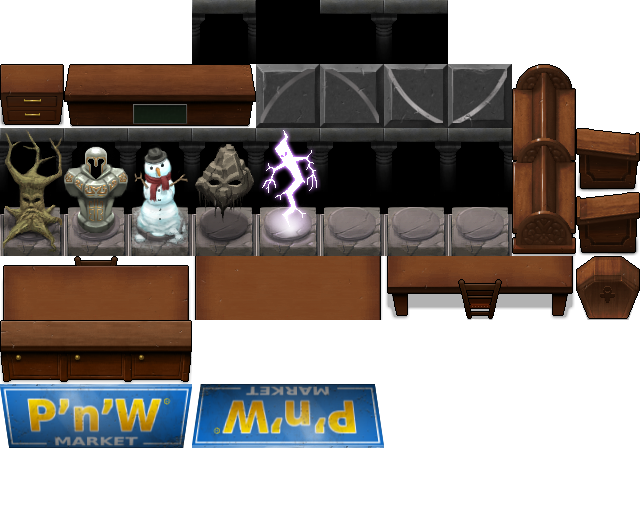
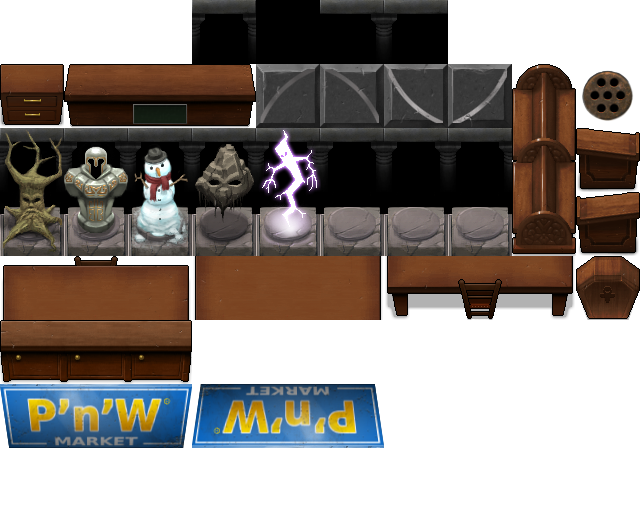
MOD Grid on the dungeon objects now

Changed region(s): [[0.9062, 0.125, 1.0, 0.25]]

diff --git a/src/DungeonMap.cpp b/src/DungeonMap.cpp
@@ -911,10 +911,10 @@ void DungeonMap::generateRoomWithoutHoles(int type)
     else if (roomType == roomTypeBoss && (game().getLevel() == 2) ) // giant slime
     {
       // good ?
-      map[1][1] = MAP_GRID + 1;
-      map[1][MAP_HEIGHT -2] = MAP_GRID + 1;
-      map[MAP_WIDTH - 2][1] = MAP_GRID + 1;
-      map[MAP_WIDTH - 2][MAP_HEIGHT -2] = MAP_GRID + 1;
+      objectsMap[1][1] = MAPOBJ_GRID;
+      objectsMap[1][MAP_HEIGHT -2] = MAPOBJ_GRID;
+      objectsMap[MAP_WIDTH - 2][1] = MAPOBJ_GRID;
+      objectsMap[MAP_WIDTH - 2][MAP_HEIGHT -2] = MAPOBJ_GRID;
     }
     if (roomType == roomTypeStandard)
     {
@@ -1099,13 +1099,6 @@ void DungeonMap::generateRoomWithHoles(int type)
         map[x0][MAP_HEIGHT - 1]     = 63;
         map[x0 + 1][MAP_HEIGHT - 1] = 64;
       }
-    }
-    if (roomType == roomTypeBoss && game().getLevel() == 2) // giant slime
-    {
-      map[1][1] = MAP_GRID;
-      map[1][MAP_HEIGHT -2] = MAP_GRID;
-      map[MAP_WIDTH - 2][1] = MAP_GRID;
-      map[MAP_WIDTH - 2][MAP_HEIGHT -2] = MAP_GRID;
     }
     /*else if (rand() % 2 == 0)
     {
@@ -1378,9 +1371,10 @@ void DungeonMap::addRandomGrids(int n)
   {
     int rx = 1 + rand() % (MAP_WIDTH - 2);
     int ry = 1 + rand() % (MAP_HEIGHT - 2);
-    if (logicalMap[rx][ry] == LogicalFloor)
+    if (logicalMap[rx][ry] == LogicalFloor
+        || objectsMap[rx][ry] == 0)
     {
-      map[rx][ry] = MAP_GRID + game().getLevel() - 1;
+      objectsMap[rx][ry] = MAPOBJ_GRID;
       counter--;
     }
   }

diff --git a/src/DungeonMap.h b/src/DungeonMap.h
@@ -13,6 +13,7 @@ const int MAPOBJ_OBSTACLE      =   10;
 const int MAPOBJ_BIG_OBSTACLE  =   40;
 const int MAPOBJ_TOMB          =   49;
 const int MAPOBJ_WALL_SPECIAL  =   14;
+const int MAPOBJ_GRID          =   19;
 const int MAPOBJ_BANK_TOP      =   18;
 const int MAPOBJ_BANK          =   28;
 const int MAPOBJ_BANK_BOTTOM   =   38;
@@ -39,7 +40,7 @@ const int MAP_NORMAL_FLOOR    =   8;
 const int MAP_TEMPLE          =   192;
 const int MAP_CARPET          =   200;
 const int MAP_TILE_KEY        =   209;
-const int MAP_GRID            =   240;
+//const int MAP_GRID            =   240;
 const int MAP_STAIRS_UP   =   2 + MAP_WALL_BEGIN;
 
 // walls
